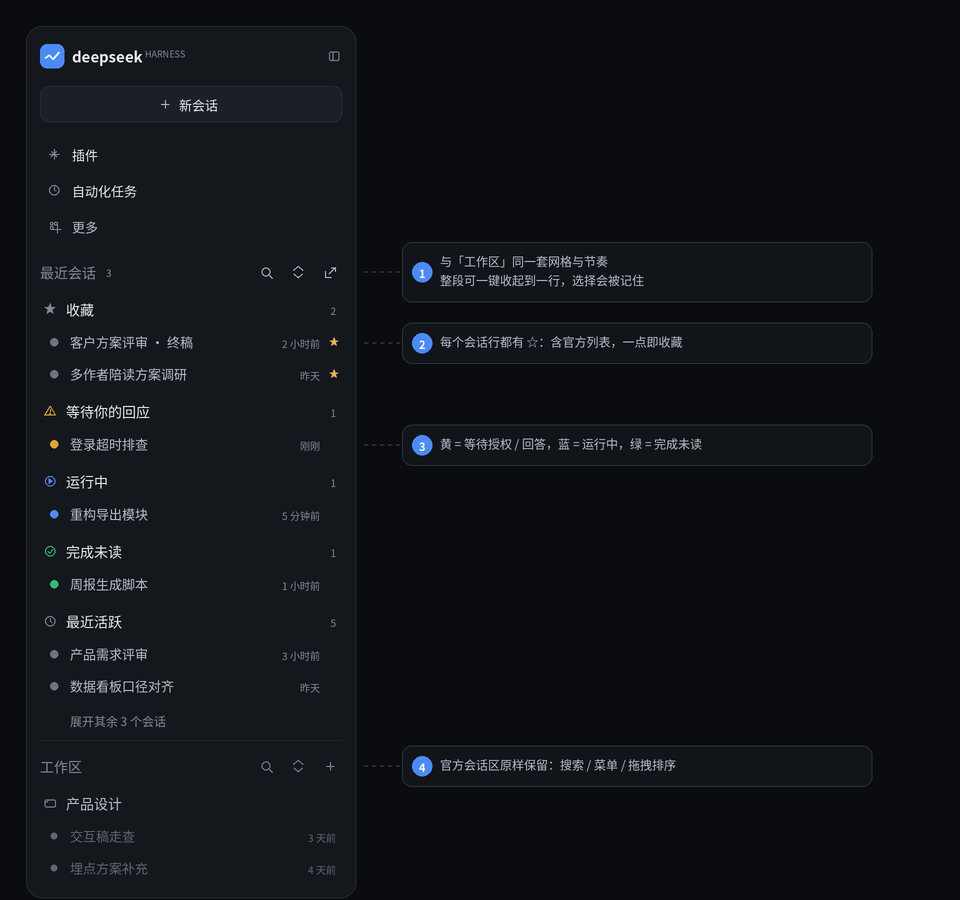
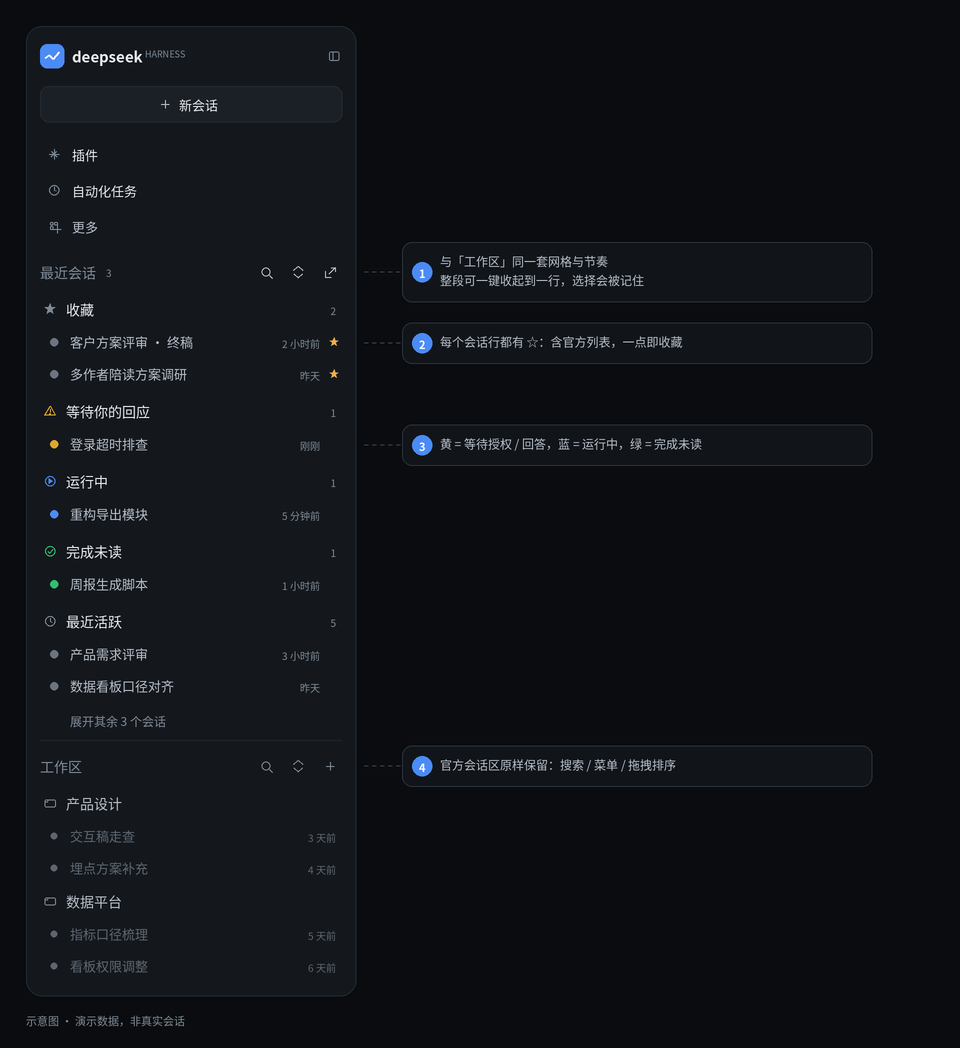
docs: collapsed-state preview image

diff --git a/index.html b/index.html
@@ -64,9 +64,13 @@
         <li><span class="k">就地搜索</span><span>标题右侧 🔍 直接筛选本分区的会话，按标题 / 工作区匹配</span></li>
       </ul>
 
-      <figure style="margin: 0 0 28px">
+      <figure style="margin: 0 0 20px">
         <img src="./docs/preview-dark.png" alt="最近会话分区示意（演示数据）" style="width: 100%; height: auto; border-radius: 12px; border: 1px solid #232a32" />
         <figcaption style="margin-top: 8px; color: #7f8a96; font-size: 12px">示意图 · 演示数据，非真实会话</figcaption>
+      </figure>
+      <figure style="margin: 0 0 28px">
+        <img src="./docs/preview-collapsed-dark.png" alt="收起态：只剩一行" style="width: 100%; height: auto; border-radius: 12px; border: 1px solid #232a32" />
+        <figcaption style="margin-top: 8px; color: #7f8a96; font-size: 12px">收起态 · 整段只剩一行，工作区立即拿回全部高度</figcaption>
       </figure>
 
       <p class="lead" style="margin-bottom: 8px">在 DSH 里安装：</p>

diff --git a/docs/make-preview.py b/docs/make-preview.py
@@ -145,9 +145,9 @@ def glyph_loop(cv, x, y, color):
     cv.circle(x, y, 5, outline=color, width=1.2)
     cv.line([(x, y - 3.4), (x, y), (x + 2.4, y + 0.6)], color, 1.1)
 
-def draw(theme):
+def draw(theme, collapsed=False):
     c = THEMES[theme]
-    cv = Canvas(960, 900, c, transparent=True)
+    cv = Canvas(960, 1100, c, transparent=True)
     x0, y0, W = 26, 26, 330
     inner = 14
     x = x0 + inner
@@ -170,11 +170,9 @@ def draw(theme):
 
     # panel rows
     for label, gl in (('插件', glyph_sparkle), ('自动化任务', glyph_loop)):
-        cv.rrect(x, y, w, 32, 8)
         gl(cv, x + 14, y + 16, c['ter'])
         cv.text(x + 32, y + 7, label, 13, c['text'])
         y += 36
-    cv.rrect(x, y, w, 32, 8)
     glyph_grid(cv, x + 14, y + 16, c['ter'])
     cv.text(x + 32, y + 7, '更多', 13, c['sec'])
     y += 44
@@ -205,25 +203,29 @@ def draw(theme):
         y += 4
         return top
 
-    fav_y = category(glyph_star, '收藏', 2, [
-        (c['idle'], '客户方案评审 · 终稿', '2 小时前', True),
-        (c['idle'], '多作者陪读方案调研', '昨天', True),
-    ])
-    pending_y = category(glyph_warn, '等待你的回应', 1, [
-        (c['warn'], '登录超时排查', '刚刚', False),
-    ], icon_color=c['warn'])
-    running_y = category(glyph_play, '运行中', 1, [
-        (c['accent'], '重构导出模块', '5 分钟前', False),
-    ], icon_color=c['accent'])
-    unread_y = category(glyph_check, '完成未读', 1, [
-        (c['ok'], '周报生成脚本', '1 小时前', False),
-    ], icon_color=c['ok'])
-    recent_y = category(glyph_clock, '最近活跃', 5, [
-        (c['idle'], '产品需求评审', '3 小时前', False),
-        (c['idle'], '数据看板口径对齐', '昨天', False),
-    ])
-    cv.text(x + 30, y + 6, '展开其余 3 个会话', 12, c['ter'])
-    y += 30
+    fav_y = pending_y = header_y
+    if not collapsed:
+        fav_y = category(glyph_star, '收藏', 2, [
+            (c['idle'], '客户方案评审 · 终稿', '2 小时前', True),
+            (c['idle'], '多作者陪读方案调研', '昨天', True),
+        ])
+        pending_y = category(glyph_warn, '等待你的回应', 1, [
+            (c['warn'], '登录超时排查', '刚刚', False),
+        ], icon_color=c['warn'])
+        category(glyph_play, '运行中', 1, [
+            (c['accent'], '重构导出模块', '5 分钟前', False),
+        ], icon_color=c['accent'])
+        category(glyph_check, '完成未读', 1, [
+            (c['ok'], '周报生成脚本', '1 小时前', False),
+        ], icon_color=c['ok'])
+        category(glyph_clock, '最近活跃', 5, [
+            (c['idle'], '产品需求评审', '3 小时前', False),
+            (c['idle'], '数据看板口径对齐', '昨天', False),
+        ])
+        cv.text(x + 30, y + 6, '展开其余 3 个会话', 12, c['ter'])
+        y += 30
+    else:
+        pass  # folded: the 36px header is the whole section
 
     # divider + official section
     cv.line([(x, y + 4), (x + w, y + 4)], c['divider'], 1)
@@ -235,26 +237,30 @@ def draw(theme):
     glyph_plus(cv, x + w - 12, y + 18, c['ter'])
     y += 38
 
-    cv.rrect(x, y, w, 34, 8)
-    glyph_folder(cv, x + 10, y + 17, c['ter'])
-    cv.text(x + 26, y + 7, '产品设计', 14, c['sec'])
-    y += 34
-    for name, when in (('交互稿走查', '3 天前'), ('埋点方案补充', '4 天前')):
-        cv.dot(x + 14, y + 16, 3.4, c['dim'])
-        cv.text(x + 30, y + 6, name, 13, c['dim'])
-        cv.text(x + w - 6, y + 10, when, 10, c['dim'], anchor='ra')
-        y += 32
+    groups = [
+        ('产品设计', [('交互稿走查', '3 天前'), ('埋点方案补充', '4 天前')]),
+        ('数据平台', [('指标口径梳理', '5 天前'), ('看板权限调整', '6 天前')]),
+    ]
+    for group, rows in groups:
+        glyph_folder(cv, x + 10, y + 17, c['ter'])
+        cv.text(x + 26, y + 7, group, 14, c['sec'])
+        y += 34
+        for name, when in rows:
+            cv.dot(x + 14, y + 16, 3.4, c['dim'])
+            cv.text(x + 30, y + 6, name, 13, c['dim'])
+            cv.text(x + w - 6, y + 10, when, 10, c['dim'], anchor='ra')
+            y += 32
 
     sidebar_h = (y + 14) - y0
+    H = max(460 if collapsed else 900, sidebar_h + 78)
 
-    # compose: background + panel, then the content layer, then callouts
-    base = Canvas(960, 900, c)
+    base = Canvas(960, H, c)
     base.rrect(x0, y0, W, sidebar_h, 16, fill=c['panel'], outline=c['border'])
-    base.img = Image.alpha_composite(base.img.convert('RGBA'), cv.img)
+    layer = cv.img.crop((0, 0, base.img.width, base.img.height))
+    base.img = Image.alpha_composite(base.img.convert('RGBA'), layer)
     base.d = ImageDraw.Draw(base.img)
     cv = base
 
-    # callouts
     cx = x0 + W + 46
     def callout(num, target_y, lines):
         box_h = 22 + 19 * len(lines)
@@ -265,16 +271,22 @@ def draw(theme):
             cv.text(cx + 38, target_y - box_h / 2 + 10 + i * 19, line, 12, c['sec'])
         cv.line([(cx - 2, target_y), (x0 + W + 6, target_y)], c['leader'], 1, dash=(4, 4))
 
-    callout(1, header_y + 18, ['与「工作区」同一套网格与节奏', '整段可一键收起到一行，选择会被记住'])
-    callout(2, fav_y + 51, ['每个会话行都有 ☆：含官方列表，一点即收藏'])
-    callout(3, pending_y + 51, ['黄 = 等待授权 / 回答，蓝 = 运行中，绿 = 完成未读'])
-    callout(4, workspaces_y + 18, ['官方会话区原样保留：搜索 / 菜单 / 拖拽排序'])
+    if collapsed:
+        callout(1, header_y + 18, ['收起后只剩一行（36px），点标题随时展开', '这次选择会被记住，刷新页面也保持'])
+        callout(2, workspaces_y + 18, ['工作区列表立刻拿回全部高度'])
+        cv.text(x0, y0 + sidebar_h + 16, '示意图 · 收起态 · 演示数据', 11, c['ter'])
+        out = f'docs/preview-collapsed-{theme}.png'
+    else:
+        callout(1, header_y + 18, ['与「工作区」同一套网格与节奏', '整段可一键收起到一行，选择会被记住'])
+        callout(2, fav_y + 51, ['每个会话行都有 ☆：含官方列表，一点即收藏'])
+        callout(3, pending_y + 51, ['黄 = 等待授权 / 回答，蓝 = 运行中，绿 = 完成未读'])
+        callout(4, workspaces_y + 18, ['官方会话区原样保留：搜索 / 菜单 / 拖拽排序'])
+        cv.text(x0, y0 + sidebar_h + 16, '示意图 · 演示数据，非真实会话', 11, c['ter'])
+        out = f'docs/preview-{theme}.png'
 
-    # footer
-    cv.text(x0, y0 + sidebar_h + 16, '示意图 · 演示数据，非真实会话', 11, c['ter'])
-    out = f'docs/preview-{theme}.png'
     cv.img.resize((cv.w, cv.h), Image.LANCZOS).convert('RGB').save(out)
     print('wrote', out, (cv.w, cv.h))
 
 for t in ('dark', 'light'):
     draw(t)
+    draw(t, collapsed=True)

diff --git a/README.zh.md b/README.zh.md
@@ -11,6 +11,14 @@
 
 <sub>示意图：演示数据，非真实会话</sub>
 
+<picture>
+  <source media="(prefers-color-scheme: dark)" srcset="docs/preview-collapsed-dark.png">
+  <source media="(prefers-color-scheme: light)" srcset="docs/preview-collapsed-light.png">
+  <img alt="收起态：整段只剩一行，工作区拿回全部高度" src="docs/preview-collapsed-light.png" width="620">
+</picture>
+
+<sub>收起态：整段只剩一行（36px），点标题随时展开，选择会被记住；工作区立即拿回全部高度</sub>
+
 给 [DeepSeek Harness](https://github.com/deepseek-ai/deepseek-harness) 的**左侧栏**加一个「最近会话」分区。它和官方「工作区」共用同一套网格与交互（36px 分区标题 / 34px 分组行 / 32px 会话行 / 28px 溢出行），看起来就是官方侧边栏的一部分：不另开页面、不是悬浮面板，也不改变官方会话浏览区的任何行为。
 
 **顺手的地方**：

diff --git a/README.md b/README.md
@@ -11,6 +11,14 @@
 
 <sub>Illustration with demo data, not real sessions</sub>
 
+<picture>
+  <source media="(prefers-color-scheme: dark)" srcset="docs/preview-collapsed-dark.png">
+  <source media="(prefers-color-scheme: light)" srcset="docs/preview-collapsed-light.png">
+  <img alt="Folded: a single 36px row, Workspaces gets its height back" src="docs/preview-collapsed-light.png" width="620">
+</picture>
+
+<sub>Folded: the whole block is one 36px row; click the title to expand and the choice is remembered — Workspaces gets its height back right away</sub>
+
 It shares the official **Workspaces** grid and interactions (36px section header / 34px project row / 32px session row / 28px overflow row), so it reads as part of the sidebar: no extra page, no floating panel, and not one change to the official session browser.
 
 **Nice touches**:
